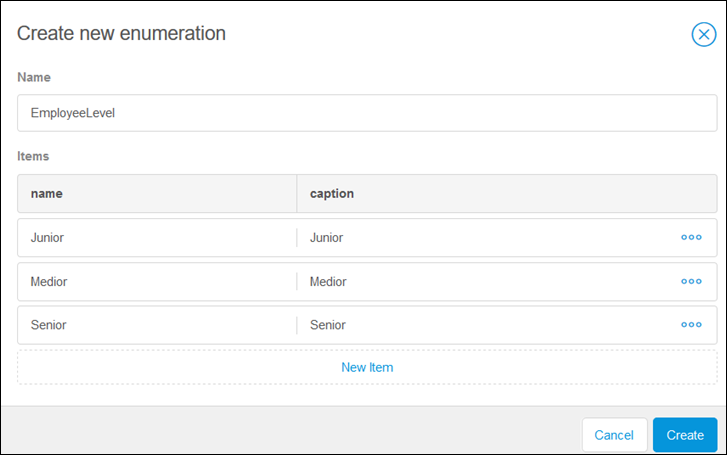
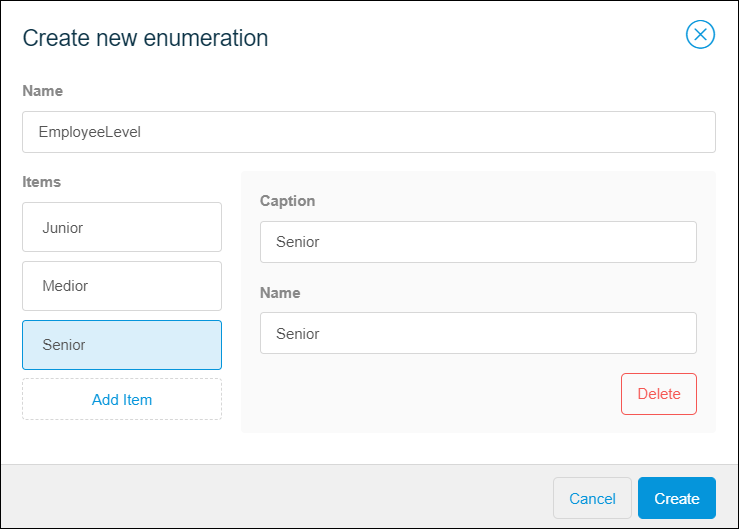
Maria review (#1233)
* Docs update

* Update start-with-a-blank-app-5-add-employee-promotion-logic.md

diff --git a/content/howto/tutorials/start-with-a-blank-app-5-add-employee-promotion-logic.md b/content/howto/tutorials/start-with-a-blank-app-5-add-employee-promotion-logic.md
@@ -75,17 +75,22 @@ To extend the structure of the **Employee** entity, follow these steps:
 
     ![](attachments/start-with-a-blank-app/entity.png)
 
-3.  Select the **Employee** entity and do the following:<br>
+3. Select the **Employee** entity and do the following:<br>
     a. Click the **New attribute** button below the entity.<br>
     b. Set the **Name** to *Level*.<br>
     c. Set the **Type** to **Enumeration**.<br>
-    d. Click **Select enumeration** to create a new enumeration.<br>
-    e. Enter *EmployeeLevel* for the **Name**.<br>
-    f. Click **New** and enter *Junior* for the **Caption** and **Name**.<br>
-    g. Repeat the step above to create the **Medior** and **Senior** items.<br>
-    h. Click **OK** to close the dialog boxes and create the new attribute.
-
+    d. Click **Select enumeration**.<br>
+    e. Click **New** to create a new enumeration. <br>
+    f. Enter *EmployeeLevel* for the **Name**.<br>
+    g. Click **Add item** and enter *Junior* for the **Caption** and **Name**.<br>
+    h. Repeat the step above to create the **Medior** and **Senior** items.<br>
+    i. Click **Create** to close the dialog box and to create the new enumeration.<br>
+    
     ![](attachments/start-with-a-blank-app/enumeration.png)
+    
+    j. In the **Create New Attribute** dialog window, click **Create** to create the new attribute.<br>
+
+    ![](attachments/start-with-a-blank-app/create-new-attribute.png)
 
 4. Select the **Level** attribute in the **Employee** entity and set the **Default Value** property to **Junior**.
 

diff --git a/content/refguide/desktop-modeler-overview.md b/content/refguide/desktop-modeler-overview.md
@@ -1,6 +1,6 @@
 ---
 title: "Desktop Modeler Overview"
-category: " Desktop Modeler"
+category: "Desktop Modeler"
 description: "Describes the Desktop Modeler in general: tabs, menus, shortcut keys."
 menu_order: 10
 tags: ["desktop modeler"]
